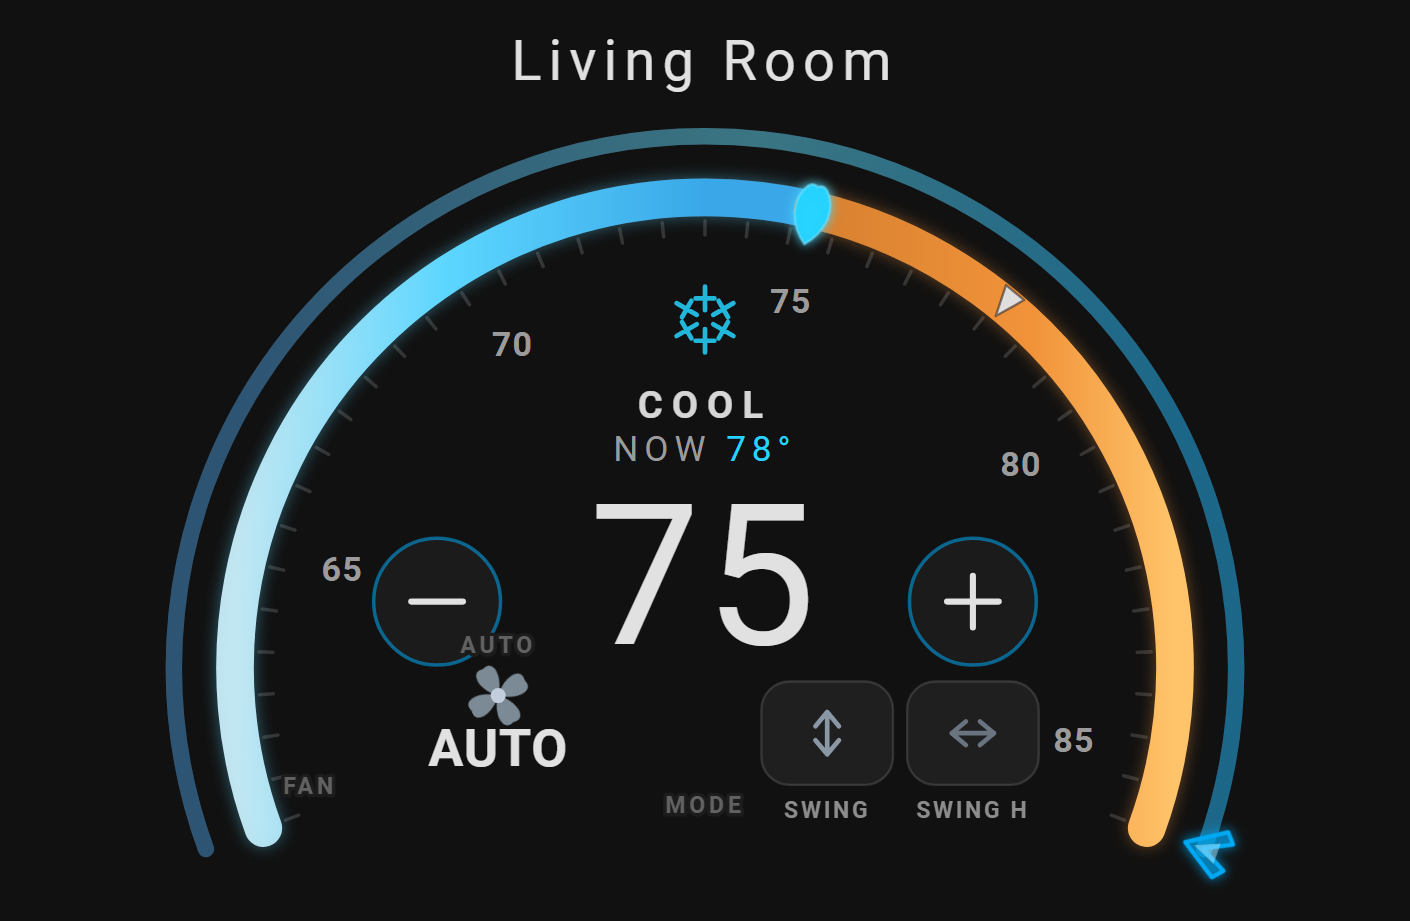
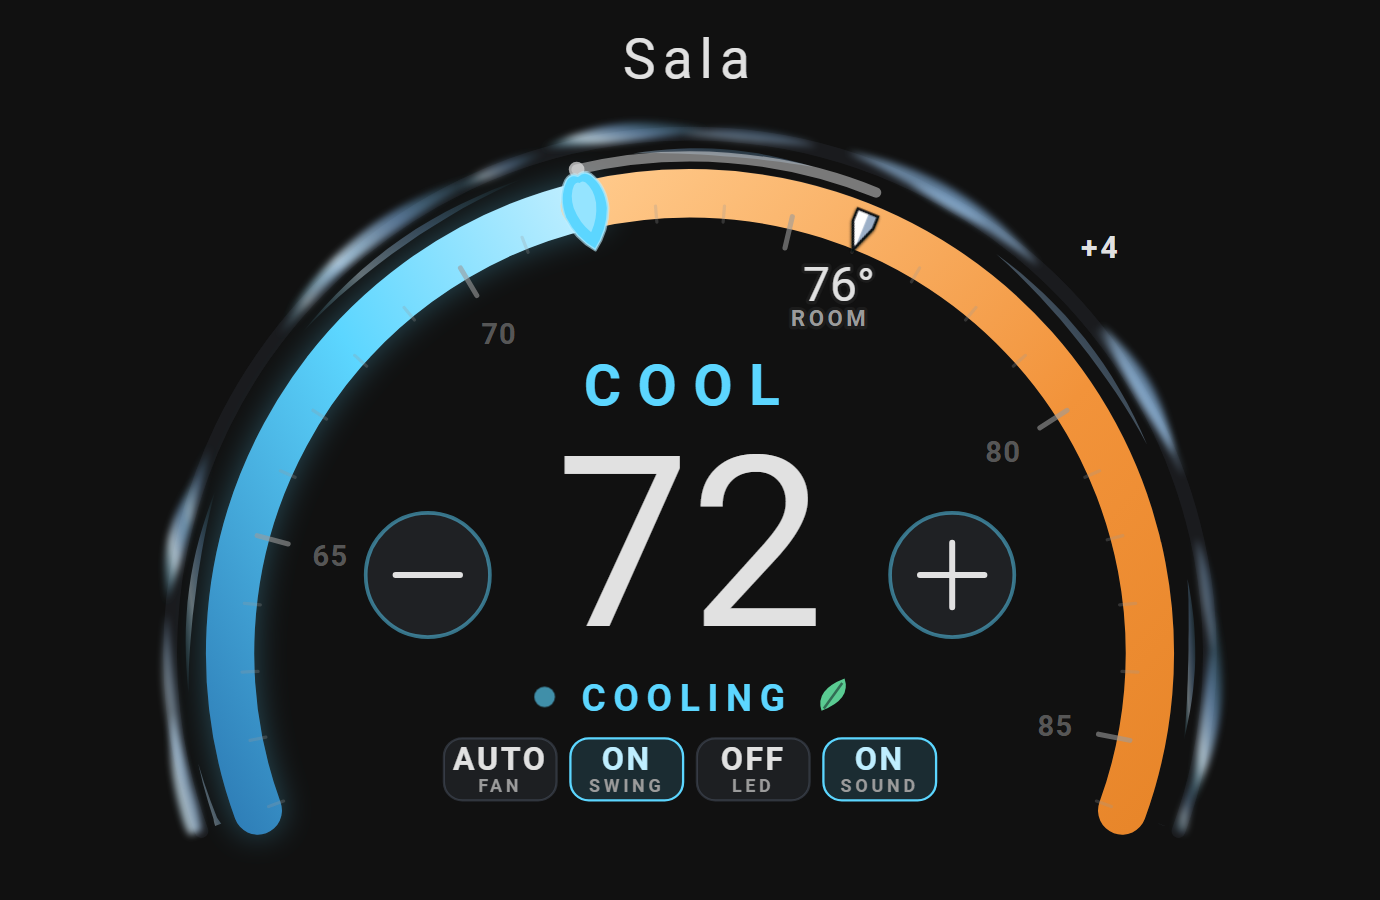
Reshoot every asset on the new face, and fix the two things they showed
The RH line sat at the original stack's height, which the new 104pt numeral
occupies, so a unit reporting humidity drew it across its own setpoint. And
action_rows was classic-only, so it was offered by the editor and ignored on
the default layout. Both found by looking at the captures.

Gallery drops the light-theme frame for a room's sheet; assets 8.0 MB to 5.2 MB.

diff --git a/climate-cluster-card.js b/climate-cluster-card.js
@@ -4981,6 +4981,15 @@
         const n = this._refs[k];
         if (n && n.style) n.style.display = "none";
       });
+      /* RH is not hidden, it is MOVED. The original face stacked mode, NOW, RH and
+         the numeral down the centre, so RH sat at 216 with the numeral starting at
+         244. The new numeral is 104 tall with its baseline at 272, which puts 216
+         inside the digits: a unit reporting humidity drew "RH 54%" straight across
+         its own setpoint. There is a clear 25 unit band between that baseline and
+         the status line, so it goes there, smaller, as a fourth line rather than a
+         collision. Anything wider than the numeral would not fit, and humidity is
+         always three characters and a sign. */
+      this._placeRh(300, 288, "13", "2");
       // The legacy steppers are kept because they carry the press-and-repeat
       // handlers; only their painted circle and glyph are switched off, and the
       // group stays as the hit target over the new ones.
@@ -4999,9 +5008,21 @@
         const n = this._refs[k];
         if (n && n.style) n.style.display = "";
       });
+      this._placeRh(CX, 216, "15", "2.5");
       (this._refs.steps || []).forEach((x) => {
         [...x.g.childNodes].forEach((n) => { if (n.style) n.style.display = ""; });
       });
+    }
+
+    // Only the geometry. Whether it is drawn at all stays with show_humidity, which
+    // is decided once further down _render for both faces.
+    _placeRh(x, y, size, tracking) {
+      const n = this._refs.rhCap;
+      if (!n) return;
+      n.setAttribute("x", x);
+      n.setAttribute("y", y);
+      n.setAttribute("font-size", size);
+      n.setAttribute("letter-spacing", tracking);
     }
 
     _faceMode() {
@@ -7742,7 +7763,7 @@ ${FACE.KEYFRAMES}
         + model.zones.map((z, i) => ZONE.tile(z, i, d)).join("") + "</div></div>";
 
       if (this._config.group_actions !== false) {
-        html += ZONE.footer(this._zoneActions(model, d, ui));
+        html += this._zoneFooter(this._zoneActions(model, d, ui));
       }
       html += "</div>";
       this._pendingDeclutter = true;
@@ -7863,6 +7884,20 @@ ${FACE.KEYFRAMES}
       const hit = a.x < b.x + b.width && b.x < a.x + a.width
         && a.y < b.y + b.height && b.y < a.y + a.height;
       if (hit) lb.style.display = "none";
+    }
+
+    /* `action_rows` is a shipped key and it worked on the classic layout only, so on
+       the layout this release makes the default it was accepted by the editor and
+       then ignored. The module's bar is a wrapping flex row written as an inline
+       style, and an inline style beats any stylesheet, so the row is rewritten here
+       the same way the zone card's colours are. */
+    _zoneFooter(acts) {
+      const html = ZONE.footer(acts);
+      const forced = this._gridStyle("action_rows", acts.length);
+      if (!forced) return html;
+      const cols = /repeat\((\d+)/.exec(forced);
+      return html.replace("display:flex; flex-wrap:wrap; justify-content:center; ",
+        "display:grid; grid-template-columns:repeat(" + cols[1] + ",minmax(0,1fr)); ");
     }
 
     /* Which buttons the bar carries, and in what order.

diff --git a/test/face_config.test.js b/test/face_config.test.js
@@ -62,3 +62,38 @@ test("an unset mode keeps the module's own ink, not the card palette", () => {
   // the card palette would repaint dry from amber to teal, which is a redesign.
   assert.match(card._refs.faceCenter.innerHTML, /5CD6FF/i);
 });
+
+// The humidity line is the fourth line of the ORIGINAL centre stack, and it sat at
+// y 216 with the old numeral starting at 244. The new numeral is 104 tall on a 272
+// baseline, so 216 lands inside the digits: a unit reporting humidity drew "RH 54%"
+// straight across its own setpoint. It shipped that way because no fixture in this
+// suite reported current_humidity, so nothing rendered the collision.
+const withRh = (over) => {
+  const st = JSON.parse(JSON.stringify(fx.states));
+  Object.assign(st["climate.aire_sala"].attributes, { current_humidity: 54 }, over || {});
+  return makeHass(st, { entities: fx.entities });
+};
+
+test("humidity: the RH line clears the new numeral and the status line", () => {
+  const card = liveCard(Object.assign({}, fx.config), withRh());
+  const rh = card._refs.rhCap;
+  assert.notEqual(rh.style.display, "none", "the entity reports it, so it is drawn");
+  const y = Number(rh.getAttribute("y"));
+  assert.ok(y > 272, "below the numeral's baseline, not through the digits: " + y);
+  assert.ok(y < 297, "and above the status line: " + y);
+});
+
+test("humidity: heat_cool keeps the original face, so RH goes back where it was", () => {
+  // starts on the new face, where the line above has just proved it moves
+  const card = liveCard(Object.assign({}, fx.config), withRh());
+  assert.equal(Number(card._refs.rhCap.getAttribute("y")), 288);
+
+  const st = JSON.parse(JSON.stringify(fx.states));
+  st["climate.aire_sala"].state = "heat_cool";
+  Object.assign(st["climate.aire_sala"].attributes, {
+    current_humidity: 54, target_temp_low: 68, target_temp_high: 76, temperature: null,
+  });
+  card.hass = makeHass(st, { entities: fx.entities });
+  assert.equal(Number(card._refs.rhCap.getAttribute("y")), 216,
+    "the original stack has its own room for it");
+});

diff --git a/test/zone_render.test.js b/test/zone_render.test.js
@@ -239,3 +239,25 @@ test("bar: the off button keeps all three of its faces under one name", () => {
   assert.ok(el.shadowRoot.querySelector('[data-gact="confirm"]'),
     "arming still works when the bar was named explicitly");
 });
+
+// action_rows is a shipped key, and it worked on the classic layout only. On the
+// layout this release makes the default it was accepted by the editor and then
+// ignored, which is the same defect class as show_scale on the new dial face.
+test("bar: action_rows lays the buttons out in the rows asked for", () => {
+  const loose = makeGroup().shadowRoot.querySelector('[data-act="footer"]');
+  assert.match(loose.getAttribute("style"), /display:flex/, "unset stays a wrapping row");
+
+  const el = makeGroup({ action_rows: 2 });
+  const bar = el.shadowRoot.querySelector('[data-act="footer"]');
+  const n = el.shadowRoot.querySelectorAll("[data-gact]").length;
+  assert.match(bar.getAttribute("style"), /display:grid/, "a row count makes it a grid");
+  assert.ok(bar.getAttribute("style").includes("repeat(" + Math.ceil(n / 2) + ","),
+    "columns worked out from the count: " + bar.getAttribute("style"));
+});
+
+test("bar: a silly action_rows is ignored rather than breaking the bar", () => {
+  for (const bad of ["abc", 0, -2, null]) {
+    const bar = makeGroup({ action_rows: bad }).shadowRoot.querySelector('[data-act="footer"]');
+    assert.match(bar.getAttribute("style"), /display:flex/, JSON.stringify(bad));
+  }
+});

diff --git a/README.md b/README.md
@@ -143,10 +143,10 @@ glass_color: "#0E1A24" # tint for the frosted panel
 accent: "#4ADD5F"      # used on the running count and the buttons
 ```
 
-Tap a room's number and that room's sheet opens: its modes, its presets, its fan and
-swing, and its own plus and minus. It is the same sheet the single dial opens, so the
-two cards behave identically once you are inside one. Drag the house gauge to move
-every room at once.
+Tap a room's number and that room's sheet opens: its modes, its presets and its own
+hardware toggles. It is the same object the single dial opens, so the two cards behave
+identically once you are inside one. Plus and minus sit on the tile itself, and
+dragging the house gauge moves every room at once.
 
 **Every option is in the visual editor here too.**
 
@@ -166,7 +166,7 @@ every room at once.
 | `hero` | `average` \| `hottest` | `average` | What the big gauge reads. **`layout: classic` only.** |
 | `tap_zone` | `focus` \| `more-info` | `focus` | What tapping a tile does. **`layout: classic` only.** |
 
-<img src="https://raw.githubusercontent.com/rickyfont94/climate-cluster-card/main/assets/group-rows.png" alt="Group card with the zones on one row" width="720">
+<img src="https://raw.githubusercontent.com/rickyfont94/climate-cluster-card/main/assets/group-rows.png" alt="Multi-zone card in its vertical shape" width="470">
 
 **All off** becomes **All on** when the whole house is off, and puts each room back the
 way it was rather than picking a mode for it. **Sync all** matches the temperature *and*
@@ -209,11 +209,11 @@ extra_toggles:
   <td><img src="https://raw.githubusercontent.com/rickyfont94/climate-cluster-card/main/assets/preview.png" alt="Two-ring dial" width="330"><br><b>Two-ring dial</b>, inner is temp, outer is fan</td>
   <td><img src="https://raw.githubusercontent.com/rickyfont94/climate-cluster-card/main/assets/view-modes.png" alt="Mode popup" width="330"><br><b>Mode popup</b> with the feature chips</td>
 </tr><tr>
-  <td><img src="https://raw.githubusercontent.com/rickyfont94/climate-cluster-card/main/assets/theme-light.png" alt="Light theme" width="330"><br><b>Light theme</b></td>
-  <td><img src="https://raw.githubusercontent.com/rickyfont94/climate-cluster-card/main/assets/theme-dark.png" alt="Dark theme" width="330"><br><b>Dark theme</b></td>
+  <td><img src="https://raw.githubusercontent.com/rickyfont94/climate-cluster-card/main/assets/zone-sheet.png" alt="A room's sheet on the multi-zone card" width="330"><br><b>A room's sheet</b>, the same object the dial opens</td>
+  <td><img src="https://raw.githubusercontent.com/rickyfont94/climate-cluster-card/main/assets/theme-dark.png" alt="Preset glyph and an auto fan" width="330"><br><b>Presets</b> read as a glyph beside the status</td>
 </tr><tr>
-  <td><img src="https://raw.githubusercontent.com/rickyfont94/climate-cluster-card/main/assets/glass-hibiscus.png" alt="Frosted glass, pink accent" width="330"><br><b>Frosted glass</b>, your own tint and accent</td>
-  <td><img src="https://raw.githubusercontent.com/rickyfont94/climate-cluster-card/main/assets/glass-binnacle.png" alt="Frosted glass, green accent" width="330"><br><b>Frosted glass</b>, a second tint on the same card</td>
+  <td><img src="https://raw.githubusercontent.com/rickyfont94/climate-cluster-card/main/assets/glass-hibiscus.png" alt="Frosted glass, pink tint" width="330"><br><b>Frosted glass</b>, your own tint over your wallpaper</td>
+  <td><img src="https://raw.githubusercontent.com/rickyfont94/climate-cluster-card/main/assets/glass-binnacle.png" alt="Frosted glass, teal tint" width="330"><br><b>Frosted glass</b>, a second tint on the same card</td>
 </tr></table>
 
 </details>

diff --git a/CHANGELOG.md b/CHANGELOG.md
@@ -90,6 +90,18 @@ every key that shipped before this release still reads the same way.
 - The spinning glyph collided with the longer status words.
 - The room dot did not breathe, while the dial's status dot did. Both now run from
   one keyframe so they cannot drift to two rates that look almost the same.
+- A unit reporting `current_humidity` drew "RH 54%" straight across its own setpoint.
+  The humidity readout is the fourth line of the ORIGINAL centre stack, at a height
+  the new numeral occupies. It moves to the clear band under the numeral, and goes
+  back where it was on `heat_cool`, which keeps the original face.
+- `action_rows` worked on `layout: classic` only, so on the layout this release makes
+  the default it was accepted by the editor and then ignored.
+
+### Changed
+- Every screenshot reshot against this release, and the demo animation rebuilt on the
+  new dial. The light-theme frame is gone from the gallery: the card still follows a
+  light theme, but the frame was a worse advertisement than the two it sat between.
+  A room's sheet takes its place. The asset directory drops from 8.0 MB to 5.2 MB.
 
 ### Removed
 - The handoff face's dashed fan ring. `fan_style` was never able to select it.
